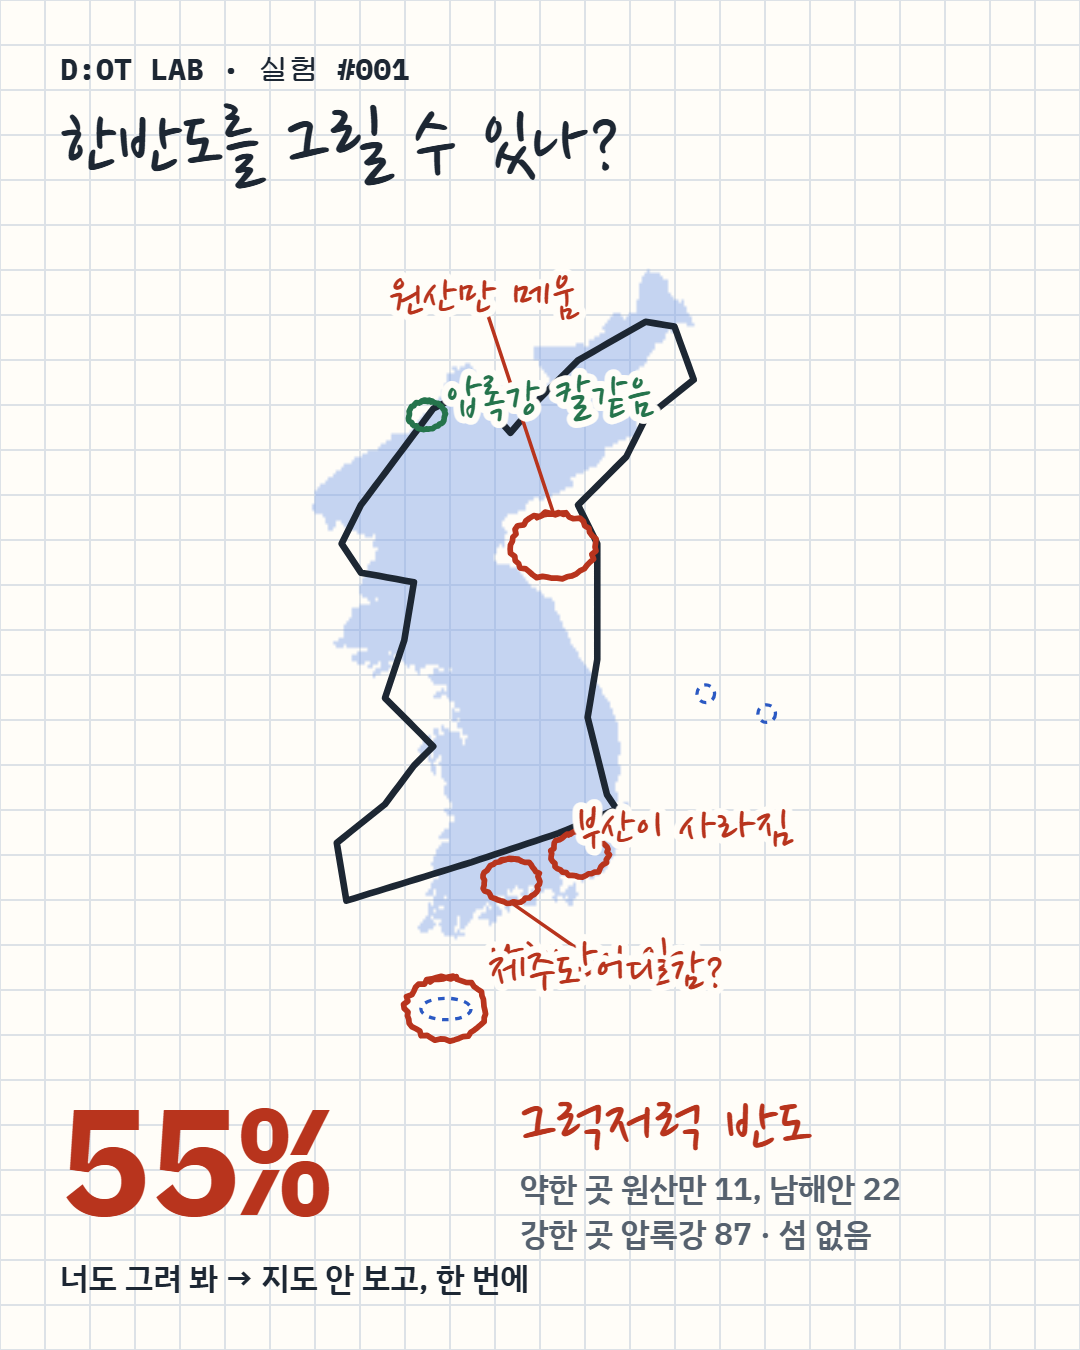
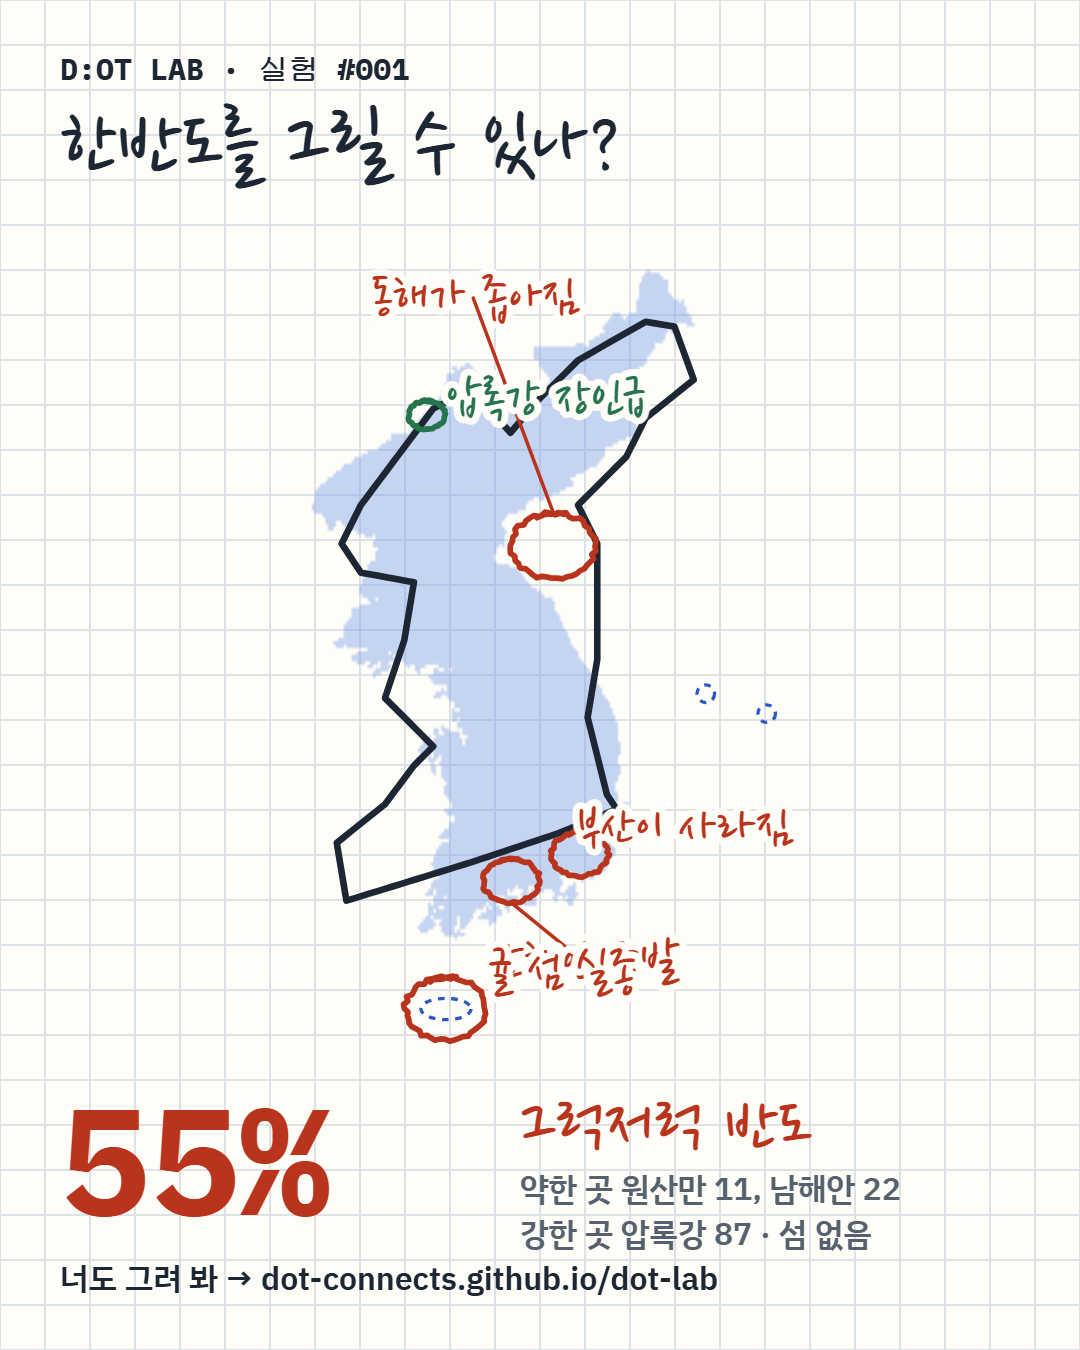
fix: draw Korea share always carries the link (T-0162)
Operator: sharing must include the link. Apps that keep only the image get the address on the card, the link is copied to the clipboard, and the URL is the Pages page wherever the copy runs; links shortened to 144 chars.

Claude-Session: https://claude.ai/code/session_01Qz7rQMowcZtxfyKM7dVZ1j

Changed region(s): [[0.3361, 0.1867, 0.6111, 0.3733], [0.4583, 0.6844, 0.6722, 0.7467], [0.2444, 0.9333, 0.6722, 0.9644]]

diff --git a/works/2026-10-21-draw-korea/site/index.html b/works/2026-10-21-draw-korea/site/index.html
@@ -67,6 +67,8 @@ button:focus-visible{outline:3px solid var(--red);outline-offset:2px}
 .isles{display:flex;gap:6px;align-items:center;flex-wrap:wrap;font-size:14px}
 .isles .chip{border:1.5px solid var(--grid);border-radius:12px;padding:1px 9px;color:var(--muted)}
 .isles .chip.on{border-color:var(--green);color:var(--green);font-weight:700}
+.toast{position:fixed;left:50%;bottom:max(20px,env(safe-area-inset-bottom,0px));transform:translateX(-50%);z-index:20;background:var(--ink);color:var(--paper);
+  font-size:14px;padding:10px 14px;border-radius:6px;max-width:calc(100vw - 32px)}
 dialog{border:1.5px solid var(--ink);border-radius:6px;padding:12px;background:var(--paper);color:var(--ink);max-width:min(92vw,420px)}
 dialog::backdrop{background:rgba(29,39,51,.55)}
 dialog img{width:100%;display:block;border:1px solid var(--grid)}
@@ -102,8 +104,10 @@ dialog img{width:100%;display:block;border:1px solid var(--grid)}
   <p class="sub">채점: 본토만, 넓이·중심을 맞춰 겹친 뒤 두 테두리가 평균 몇 km 떨어졌나(양쪽으로 재서 더 먼 쪽). 약 11 km 이하 = 100%, 92 km 이상 = 0%. 대충 그린 타원 ≈ 20~40%. 지그재그 낙서는 채점 안 함. 섬은 점수 밖 도감. 지도: Natural Earth 1:10m 국경·해안선(본토), 섬은 중심 좌표.</p>
 </main>
 <dialog id="dlg"><p class="sub" style="margin:0 0 8px">이미지를 길게 눌러 저장 · 링크는 아래 버튼</p><img id="dlgImg" alt="내 한반도 결과 이미지">
+  <p class="sub" id="dlgLink" style="margin:8px 0 0;word-break:break-all;user-select:all"></p>
   <div class="actions" style="margin-top:10px"><button class="btn" id="copy" type="button">링크 복사</button><button class="btn" id="close" type="button">닫기</button></div></dialog>
 
+<div class="toast" id="toast" role="status" hidden></div>
 <script>
 const $ = id => document.getElementById(id);
 const store = { get(k, d) { try { const v = localStorage.getItem(k); return v === null ? d : JSON.parse(v); } catch { return d; } },
@@ -281,19 +285,20 @@ function chamfer(src, PW, PH) {
   return D;
 }
 
-// ---- stroke codec: 64 points resampled by arc length, 12 bits per axis, 4 url-safe chars per point ----
+// ---- stroke codec: 48 points resampled by arc length, 9 bits per axis (512 steps), 3 url-safe chars per point ----
 const B64 = "ABCDEFGHIJKLMNOPQRSTUVWXYZabcdefghijklmnopqrstuvwxyz0123456789-_";
 function enc(st) {
   const L = [0]; for (let i = 1; i < st.length; i++) L.push(L[i - 1] + Math.hypot(st[i][0] - st[i - 1][0], st[i][1] - st[i - 1][1]));
   const b = bbox(st), m = Math.max(b.w, b.h) || 1; let out = "", j = 0;
-  for (let q = 0; q < 64; q++) { const d = L[L.length - 1] * q / 63; while (j < L.length - 2 && L[j + 1] < d) j++;
+  for (let q = 0; q < 48; q++) { const d = L[L.length - 1] * q / 47; while (j < L.length - 2 && L[j + 1] < d) j++;
     const t = L[j + 1] > L[j] ? (d - L[j]) / (L[j + 1] - L[j]) : 0, x = st[j][0] + (st[j + 1 < st.length ? j + 1 : j][0] - st[j][0]) * t, y = st[j][1] + (st[j + 1 < st.length ? j + 1 : j][1] - st[j][1]) * t;
-    for (const v of [(x - b.x0) / m, (y - b.y0) / m]) { const n = Math.round(Math.min(1, Math.max(0, v)) * 4095); out += B64[n >> 6] + B64[n & 63]; } }
+    const nx = Math.round(Math.min(1, Math.max(0, (x - b.x0) / m)) * 511), ny = Math.round(Math.min(1, Math.max(0, (y - b.y0) / m)) * 511), n = nx << 9 | ny;
+    out += B64[n >> 12] + B64[(n >> 6) & 63] + B64[n & 63]; }
   return out;
 }
 function dec(str) {
-  if (!/^[A-Za-z0-9_-]+$/.test(str) || str.length !== 256) return null; const pts = [];
-  for (let i = 0; i < str.length; i += 4) { const v = k => (B64.indexOf(str[k]) << 6 | B64.indexOf(str[k + 1])) / 4095; pts.push([v(i), v(i + 2)]); }
+  if (!/^[A-Za-z0-9_-]+$/.test(str) || str.length !== 144) return null; const pts = [];
+  for (let i = 0; i < str.length; i += 3) { const n = B64.indexOf(str[i]) << 12 | B64.indexOf(str[i + 1]) << 6 | B64.indexOf(str[i + 2]); pts.push([(n >> 9) / 511, (n & 511) / 511]); }
   return pts;
 }
 // lay a decoded outline over the result: same area as the target, centroid on the target's centroid
@@ -445,7 +450,8 @@ meLine(); islesLine(); histLine();
 
 // ---- share card ----
 let cardBlob = null;
-const pageUrl = () => location.origin && location.origin !== "null" ? location.origin + location.pathname : "";
+const SITE = "https://dot-connects.github.io/dot-lab/works/2026-10-21-draw-korea/site/";
+const challengeUrl = () => `${SITE}?s=${res.pct}&d=${res.code}`;
 async function card() {
   const W = 1080, H = 1350, c = document.createElement("canvas"); c.width = W; c.height = H; const g = c.getContext("2d");
   g.fillStyle = "#fffdf8"; g.fillRect(0, 0, W, H); g.strokeStyle = "#dde2e7"; g.lineWidth = 2;
@@ -466,15 +472,21 @@ async function card() {
   fit(`약한 곳 ${srt.slice(0, 2).map(r => r.name + " " + r.pct).join(", ")}`, 1200);
   fit(`강한 곳 ${srt[srt.length - 1].name} ${srt[srt.length - 1].pct} · 섬 ` + (ISLES.filter(i => res.got[i.id]).map(i => i.name + "✓").join(" ") || "없음") + (res.friend ? " · 초록 = 친구" : ""), 1245);
   g.font = '600 32px "IBM Plex Sans KR", sans-serif';
-  g.fillStyle = "#1d2733"; g.fillText("너도 그려 봐 → 지도 안 보고, 한 번에", 60, 1290);
+  g.fillStyle = "#1d2733"; g.fillText("너도 그려 봐 → dot-connects.github.io/dot-lab", 60, 1290);   // apps that drop the text still carry the address
   return new Promise(ok => c.toBlob(ok, "image/png"));
 }
-const shareText = () => `한반도 그리기 ${res.pct}% — 「${label(res.pct)}」 이길 수 있나?` + (pageUrl() ? `\n${pageUrl()}?s=${res.pct}&d=${res.code}` : "");
+const shareText = () => `한반도 그리기 ${res.pct}% — 「${label(res.pct)}」 이길 수 있나?\n${challengeUrl()}`;
 $("share").onclick = async () => {
   if (!res) return; const blob = cardBlob || await card(), file = new File([blob], `korea-${res.pct}.png`, { type: "image/png" });
-  if (navigator.canShare && navigator.canShare({ files: [file] })) { try { await navigator.share({ files: [file], text: shareText() }); return; } catch (e) { if (e.name === "AbortError") return; } }
-  $("dlgImg").src = URL.createObjectURL(blob); $("copy").textContent = "링크 복사"; $("dlg").showModal();
+  // KakaoTalk / Instagram often keep only the image from a files share, so the link also goes to the clipboard
+  let copied = false; try { await navigator.clipboard.writeText(shareText()); copied = true; } catch {}
+  if (navigator.canShare && navigator.canShare({ files: [file] })) {
+    try { await navigator.share({ files: [file], text: shareText(), url: challengeUrl() }); if (copied) toast("링크도 복사해 뒀다. 붙여 넣기만 하면 됨"); return; }
+    catch (e) { if (e.name === "AbortError") return; } }
+  if (navigator.share && !navigator.canShare) { try { await navigator.share({ text: shareText(), url: challengeUrl() }); return; } catch (e) { if (e.name === "AbortError") return; } }
+  $("dlgImg").src = URL.createObjectURL(blob); $("dlgLink").textContent = `${SITE}?s=${res.pct}…`; $("copy").textContent = copied ? "링크 복사됨" : "링크 복사"; $("dlg").showModal();
 };
+function toast(t) { const el = $("toast"); el.textContent = t; el.hidden = false; clearTimeout(toast.h); toast.h = setTimeout(() => el.hidden = true, 3000); }
 $("copy").onclick = async () => { try { await navigator.clipboard.writeText(shareText()); $("copy").textContent = "복사됨"; } catch { $("copy").textContent = "복사 안 됨"; } };
 $("close").onclick = () => $("dlg").close();
 $("again").onclick = () => { reset(); drawInk(); };

diff --git a/works/2026-10-21-draw-korea/preview.html b/works/2026-10-21-draw-korea/preview.html
@@ -62,6 +62,8 @@ button:focus-visible{outline:3px solid var(--red);outline-offset:2px}
 .isles{display:flex;gap:6px;align-items:center;flex-wrap:wrap;font-size:14px}
 .isles .chip{border:1.5px solid var(--grid);border-radius:12px;padding:1px 9px;color:var(--muted)}
 .isles .chip.on{border-color:var(--green);color:var(--green);font-weight:700}
+.toast{position:fixed;left:50%;bottom:max(20px,env(safe-area-inset-bottom,0px));transform:translateX(-50%);z-index:20;background:var(--ink);color:var(--paper);
+  font-size:14px;padding:10px 14px;border-radius:6px;max-width:calc(100vw - 32px)}
 dialog{border:1.5px solid var(--ink);border-radius:6px;padding:12px;background:var(--paper);color:var(--ink);max-width:min(92vw,420px)}
 dialog::backdrop{background:rgba(29,39,51,.55)}
 dialog img{width:100%;display:block;border:1px solid var(--grid)}
@@ -94,8 +96,10 @@ dialog img{width:100%;display:block;border:1px solid var(--grid)}
   <p class="sub">채점: 본토만, 넓이·중심을 맞춰 겹친 뒤 두 테두리가 평균 몇 km 떨어졌나(양쪽으로 재서 더 먼 쪽). 약 11 km 이하 = 100%, 92 km 이상 = 0%. 대충 그린 타원 ≈ 20~40%. 지그재그 낙서는 채점 안 함. 섬은 점수 밖 도감. 지도: Natural Earth 1:10m 국경·해안선(본토), 섬은 중심 좌표.</p>
 </main>
 <dialog id="dlg"><p class="sub" style="margin:0 0 8px">이미지를 길게 눌러 저장 · 링크는 아래 버튼</p><img id="dlgImg" alt="내 한반도 결과 이미지">
+  <p class="sub" id="dlgLink" style="margin:8px 0 0;word-break:break-all;user-select:all"></p>
   <div class="actions" style="margin-top:10px"><button class="btn" id="copy" type="button">링크 복사</button><button class="btn" id="close" type="button">닫기</button></div></dialog>
 
+<div class="toast" id="toast" role="status" hidden></div>
 <script>
 const $ = id => document.getElementById(id);
 const store = { get(k, d) { try { const v = localStorage.getItem(k); return v === null ? d : JSON.parse(v); } catch { return d; } },
@@ -273,19 +277,20 @@ function chamfer(src, PW, PH) {
   return D;
 }
 
-// ---- stroke codec: 64 points resampled by arc length, 12 bits per axis, 4 url-safe chars per point ----
+// ---- stroke codec: 48 points resampled by arc length, 9 bits per axis (512 steps), 3 url-safe chars per point ----
 const B64 = "ABCDEFGHIJKLMNOPQRSTUVWXYZabcdefghijklmnopqrstuvwxyz0123456789-_";
 function enc(st) {
   const L = [0]; for (let i = 1; i < st.length; i++) L.push(L[i - 1] + Math.hypot(st[i][0] - st[i - 1][0], st[i][1] - st[i - 1][1]));
   const b = bbox(st), m = Math.max(b.w, b.h) || 1; let out = "", j = 0;
-  for (let q = 0; q < 64; q++) { const d = L[L.length - 1] * q / 63; while (j < L.length - 2 && L[j + 1] < d) j++;
+  for (let q = 0; q < 48; q++) { const d = L[L.length - 1] * q / 47; while (j < L.length - 2 && L[j + 1] < d) j++;
     const t = L[j + 1] > L[j] ? (d - L[j]) / (L[j + 1] - L[j]) : 0, x = st[j][0] + (st[j + 1 < st.length ? j + 1 : j][0] - st[j][0]) * t, y = st[j][1] + (st[j + 1 < st.length ? j + 1 : j][1] - st[j][1]) * t;
-    for (const v of [(x - b.x0) / m, (y - b.y0) / m]) { const n = Math.round(Math.min(1, Math.max(0, v)) * 4095); out += B64[n >> 6] + B64[n & 63]; } }
+    const nx = Math.round(Math.min(1, Math.max(0, (x - b.x0) / m)) * 511), ny = Math.round(Math.min(1, Math.max(0, (y - b.y0) / m)) * 511), n = nx << 9 | ny;
+    out += B64[n >> 12] + B64[(n >> 6) & 63] + B64[n & 63]; }
   return out;
 }
 function dec(str) {
-  if (!/^[A-Za-z0-9_-]+$/.test(str) || str.length !== 256) return null; const pts = [];
-  for (let i = 0; i < str.length; i += 4) { const v = k => (B64.indexOf(str[k]) << 6 | B64.indexOf(str[k + 1])) / 4095; pts.push([v(i), v(i + 2)]); }
+  if (!/^[A-Za-z0-9_-]+$/.test(str) || str.length !== 144) return null; const pts = [];
+  for (let i = 0; i < str.length; i += 3) { const n = B64.indexOf(str[i]) << 12 | B64.indexOf(str[i + 1]) << 6 | B64.indexOf(str[i + 2]); pts.push([(n >> 9) / 511, (n & 511) / 511]); }
   return pts;
 }
 // lay a decoded outline over the result: same area as the target, centroid on the target's centroid
@@ -437,7 +442,8 @@ meLine(); islesLine(); histLine();
 
 // ---- share card ----
 let cardBlob = null;
-const pageUrl = () => location.origin && location.origin !== "null" ? location.origin + location.pathname : "";
+const SITE = "https://dot-connects.github.io/dot-lab/works/2026-10-21-draw-korea/site/";
+const challengeUrl = () => `${SITE}?s=${res.pct}&d=${res.code}`;
 async function card() {
   const W = 1080, H = 1350, c = document.createElement("canvas"); c.width = W; c.height = H; const g = c.getContext("2d");
   g.fillStyle = "#fffdf8"; g.fillRect(0, 0, W, H); g.strokeStyle = "#dde2e7"; g.lineWidth = 2;
@@ -458,15 +464,21 @@ async function card() {
   fit(`약한 곳 ${srt.slice(0, 2).map(r => r.name + " " + r.pct).join(", ")}`, 1200);
   fit(`강한 곳 ${srt[srt.length - 1].name} ${srt[srt.length - 1].pct} · 섬 ` + (ISLES.filter(i => res.got[i.id]).map(i => i.name + "✓").join(" ") || "없음") + (res.friend ? " · 초록 = 친구" : ""), 1245);
   g.font = '600 32px "IBM Plex Sans KR", sans-serif';
-  g.fillStyle = "#1d2733"; g.fillText("너도 그려 봐 → 지도 안 보고, 한 번에", 60, 1290);
+  g.fillStyle = "#1d2733"; g.fillText("너도 그려 봐 → dot-connects.github.io/dot-lab", 60, 1290);   // apps that drop the text still carry the address
   return new Promise(ok => c.toBlob(ok, "image/png"));
 }
-const shareText = () => `한반도 그리기 ${res.pct}% — 「${label(res.pct)}」 이길 수 있나?` + (pageUrl() ? `\n${pageUrl()}?s=${res.pct}&d=${res.code}` : "");
+const shareText = () => `한반도 그리기 ${res.pct}% — 「${label(res.pct)}」 이길 수 있나?\n${challengeUrl()}`;
 $("share").onclick = async () => {
   if (!res) return; const blob = cardBlob || await card(), file = new File([blob], `korea-${res.pct}.png`, { type: "image/png" });
-  if (navigator.canShare && navigator.canShare({ files: [file] })) { try { await navigator.share({ files: [file], text: shareText() }); return; } catch (e) { if (e.name === "AbortError") return; } }
-  $("dlgImg").src = URL.createObjectURL(blob); $("copy").textContent = "링크 복사"; $("dlg").showModal();
+  // KakaoTalk / Instagram often keep only the image from a files share, so the link also goes to the clipboard
+  let copied = false; try { await navigator.clipboard.writeText(shareText()); copied = true; } catch {}
+  if (navigator.canShare && navigator.canShare({ files: [file] })) {
+    try { await navigator.share({ files: [file], text: shareText(), url: challengeUrl() }); if (copied) toast("링크도 복사해 뒀다. 붙여 넣기만 하면 됨"); return; }
+    catch (e) { if (e.name === "AbortError") return; } }
+  if (navigator.share && !navigator.canShare) { try { await navigator.share({ text: shareText(), url: challengeUrl() }); return; } catch (e) { if (e.name === "AbortError") return; } }
+  $("dlgImg").src = URL.createObjectURL(blob); $("dlgLink").textContent = `${SITE}?s=${res.pct}…`; $("copy").textContent = copied ? "링크 복사됨" : "링크 복사"; $("dlg").showModal();
 };
+function toast(t) { const el = $("toast"); el.textContent = t; el.hidden = false; clearTimeout(toast.h); toast.h = setTimeout(() => el.hidden = true, 3000); }
 $("copy").onclick = async () => { try { await navigator.clipboard.writeText(shareText()); $("copy").textContent = "복사됨"; } catch { $("copy").textContent = "복사 안 됨"; } };
 $("close").onclick = () => $("dlg").close();
 $("again").onclick = () => { reset(); drawInk(); };

diff --git a/works/2026-10-21-draw-korea/src.html b/works/2026-10-21-draw-korea/src.html
@@ -62,6 +62,8 @@ button:focus-visible{outline:3px solid var(--red);outline-offset:2px}
 .isles{display:flex;gap:6px;align-items:center;flex-wrap:wrap;font-size:14px}
 .isles .chip{border:1.5px solid var(--grid);border-radius:12px;padding:1px 9px;color:var(--muted)}
 .isles .chip.on{border-color:var(--green);color:var(--green);font-weight:700}
+.toast{position:fixed;left:50%;bottom:max(20px,env(safe-area-inset-bottom,0px));transform:translateX(-50%);z-index:20;background:var(--ink);color:var(--paper);
+  font-size:14px;padding:10px 14px;border-radius:6px;max-width:calc(100vw - 32px)}
 dialog{border:1.5px solid var(--ink);border-radius:6px;padding:12px;background:var(--paper);color:var(--ink);max-width:min(92vw,420px)}
 dialog::backdrop{background:rgba(29,39,51,.55)}
 dialog img{width:100%;display:block;border:1px solid var(--grid)}
@@ -94,8 +96,10 @@ dialog img{width:100%;display:block;border:1px solid var(--grid)}
   <p class="sub">채점: 본토만, 넓이·중심을 맞춰 겹친 뒤 두 테두리가 평균 몇 km 떨어졌나(양쪽으로 재서 더 먼 쪽). 약 11 km 이하 = 100%, 92 km 이상 = 0%. 대충 그린 타원 ≈ 20~40%. 지그재그 낙서는 채점 안 함. 섬은 점수 밖 도감. 지도: Natural Earth 1:10m 국경·해안선(본토), 섬은 중심 좌표.</p>
 </main>
 <dialog id="dlg"><p class="sub" style="margin:0 0 8px">이미지를 길게 눌러 저장 · 링크는 아래 버튼</p><img id="dlgImg" alt="내 한반도 결과 이미지">
+  <p class="sub" id="dlgLink" style="margin:8px 0 0;word-break:break-all;user-select:all"></p>
   <div class="actions" style="margin-top:10px"><button class="btn" id="copy" type="button">링크 복사</button><button class="btn" id="close" type="button">닫기</button></div></dialog>
 
+<div class="toast" id="toast" role="status" hidden></div>
 <script>
 const $ = id => document.getElementById(id);
 const store = { get(k, d) { try { const v = localStorage.getItem(k); return v === null ? d : JSON.parse(v); } catch { return d; } },
@@ -273,19 +277,20 @@ function chamfer(src, PW, PH) {
   return D;
 }
 
-// ---- stroke codec: 64 points resampled by arc length, 12 bits per axis, 4 url-safe chars per point ----
+// ---- stroke codec: 48 points resampled by arc length, 9 bits per axis (512 steps), 3 url-safe chars per point ----
 const B64 = "ABCDEFGHIJKLMNOPQRSTUVWXYZabcdefghijklmnopqrstuvwxyz0123456789-_";
 function enc(st) {
   const L = [0]; for (let i = 1; i < st.length; i++) L.push(L[i - 1] + Math.hypot(st[i][0] - st[i - 1][0], st[i][1] - st[i - 1][1]));
   const b = bbox(st), m = Math.max(b.w, b.h) || 1; let out = "", j = 0;
-  for (let q = 0; q < 64; q++) { const d = L[L.length - 1] * q / 63; while (j < L.length - 2 && L[j + 1] < d) j++;
+  for (let q = 0; q < 48; q++) { const d = L[L.length - 1] * q / 47; while (j < L.length - 2 && L[j + 1] < d) j++;
     const t = L[j + 1] > L[j] ? (d - L[j]) / (L[j + 1] - L[j]) : 0, x = st[j][0] + (st[j + 1 < st.length ? j + 1 : j][0] - st[j][0]) * t, y = st[j][1] + (st[j + 1 < st.length ? j + 1 : j][1] - st[j][1]) * t;
-    for (const v of [(x - b.x0) / m, (y - b.y0) / m]) { const n = Math.round(Math.min(1, Math.max(0, v)) * 4095); out += B64[n >> 6] + B64[n & 63]; } }
+    const nx = Math.round(Math.min(1, Math.max(0, (x - b.x0) / m)) * 511), ny = Math.round(Math.min(1, Math.max(0, (y - b.y0) / m)) * 511), n = nx << 9 | ny;
+    out += B64[n >> 12] + B64[(n >> 6) & 63] + B64[n & 63]; }
   return out;
 }
 function dec(str) {
-  if (!/^[A-Za-z0-9_-]+$/.test(str) || str.length !== 256) return null; const pts = [];
-  for (let i = 0; i < str.length; i += 4) { const v = k => (B64.indexOf(str[k]) << 6 | B64.indexOf(str[k + 1])) / 4095; pts.push([v(i), v(i + 2)]); }
+  if (!/^[A-Za-z0-9_-]+$/.test(str) || str.length !== 144) return null; const pts = [];
+  for (let i = 0; i < str.length; i += 3) { const n = B64.indexOf(str[i]) << 12 | B64.indexOf(str[i + 1]) << 6 | B64.indexOf(str[i + 2]); pts.push([(n >> 9) / 511, (n & 511) / 511]); }
   return pts;
 }
 // lay a decoded outline over the result: same area as the target, centroid on the target's centroid
@@ -437,7 +442,8 @@ meLine(); islesLine(); histLine();
 
 // ---- share card ----
 let cardBlob = null;
-const pageUrl = () => location.origin && location.origin !== "null" ? location.origin + location.pathname : "";
+const SITE = "https://dot-connects.github.io/dot-lab/works/2026-10-21-draw-korea/site/";
+const challengeUrl = () => `${SITE}?s=${res.pct}&d=${res.code}`;
 async function card() {
   const W = 1080, H = 1350, c = document.createElement("canvas"); c.width = W; c.height = H; const g = c.getContext("2d");
   g.fillStyle = "#fffdf8"; g.fillRect(0, 0, W, H); g.strokeStyle = "#dde2e7"; g.lineWidth = 2;
@@ -458,15 +464,21 @@ async function card() {
   fit(`약한 곳 ${srt.slice(0, 2).map(r => r.name + " " + r.pct).join(", ")}`, 1200);
   fit(`강한 곳 ${srt[srt.length - 1].name} ${srt[srt.length - 1].pct} · 섬 ` + (ISLES.filter(i => res.got[i.id]).map(i => i.name + "✓").join(" ") || "없음") + (res.friend ? " · 초록 = 친구" : ""), 1245);
   g.font = '600 32px "IBM Plex Sans KR", sans-serif';
-  g.fillStyle = "#1d2733"; g.fillText("너도 그려 봐 → 지도 안 보고, 한 번에", 60, 1290);
+  g.fillStyle = "#1d2733"; g.fillText("너도 그려 봐 → dot-connects.github.io/dot-lab", 60, 1290);   // apps that drop the text still carry the address
   return new Promise(ok => c.toBlob(ok, "image/png"));
 }
-const shareText = () => `한반도 그리기 ${res.pct}% — 「${label(res.pct)}」 이길 수 있나?` + (pageUrl() ? `\n${pageUrl()}?s=${res.pct}&d=${res.code}` : "");
+const shareText = () => `한반도 그리기 ${res.pct}% — 「${label(res.pct)}」 이길 수 있나?\n${challengeUrl()}`;
 $("share").onclick = async () => {
   if (!res) return; const blob = cardBlob || await card(), file = new File([blob], `korea-${res.pct}.png`, { type: "image/png" });
-  if (navigator.canShare && navigator.canShare({ files: [file] })) { try { await navigator.share({ files: [file], text: shareText() }); return; } catch (e) { if (e.name === "AbortError") return; } }
-  $("dlgImg").src = URL.createObjectURL(blob); $("copy").textContent = "링크 복사"; $("dlg").showModal();
+  // KakaoTalk / Instagram often keep only the image from a files share, so the link also goes to the clipboard
+  let copied = false; try { await navigator.clipboard.writeText(shareText()); copied = true; } catch {}
+  if (navigator.canShare && navigator.canShare({ files: [file] })) {
+    try { await navigator.share({ files: [file], text: shareText(), url: challengeUrl() }); if (copied) toast("링크도 복사해 뒀다. 붙여 넣기만 하면 됨"); return; }
+    catch (e) { if (e.name === "AbortError") return; } }
+  if (navigator.share && !navigator.canShare) { try { await navigator.share({ text: shareText(), url: challengeUrl() }); return; } catch (e) { if (e.name === "AbortError") return; } }
+  $("dlgImg").src = URL.createObjectURL(blob); $("dlgLink").textContent = `${SITE}?s=${res.pct}…`; $("copy").textContent = copied ? "링크 복사됨" : "링크 복사"; $("dlg").showModal();
 };
+function toast(t) { const el = $("toast"); el.textContent = t; el.hidden = false; clearTimeout(toast.h); toast.h = setTimeout(() => el.hidden = true, 3000); }
 $("copy").onclick = async () => { try { await navigator.clipboard.writeText(shareText()); $("copy").textContent = "복사됨"; } catch { $("copy").textContent = "복사 안 됨"; } };
 $("close").onclick = () => $("dlg").close();
 $("again").onclick = () => { reset(); drawInk(); };

diff --git a/index.html b/index.html
@@ -1,0 +1,25 @@
+<!doctype html>
+<html lang="ko">
+<head>
+<meta charset="utf-8">
+<meta name="viewport" content="width=device-width, initial-scale=1">
+<title>D:OT lab</title>
+<link rel="stylesheet" href="https://fonts.googleapis.com/css2?family=Nanum+Pen+Script&family=IBM+Plex+Sans+KR:wght@400;600&display=swap">
+<style>
+:root{--paper:#f6f4ee;--ink:#1d2733;--red:#b8341d;--muted:#56616e;--grid:#dde2e7;color-scheme:light}
+body{margin:0;background:var(--paper);color:var(--ink);font-family:"IBM Plex Sans KR","Malgun Gothic",sans-serif}
+main{max-width:520px;margin:0 auto;padding:28px 16px}
+h1{font-family:"Nanum Pen Script",cursive;font-weight:400;font-size:48px;margin:0}
+p{color:var(--muted);margin:4px 0 20px}
+a{display:block;border:1.5px solid var(--ink);border-radius:4px;padding:14px 16px;color:var(--ink);text-decoration:none;background:#fffdf8}
+a b{font-family:"Nanum Pen Script",cursive;font-weight:400;font-size:30px;color:var(--red);display:block}
+</style>
+</head>
+<body>
+<main>
+  <h1>D:OT lab</h1>
+  <p>이상한 질문을 진짜로 만들어 본다.</p>
+  <a href="works/2026-10-21-draw-korea/site/"><b>실험 #001 한반도를 그릴 수 있나?</b>지도 안 보고 그려서 채점받기</a>
+</main>
+</body>
+</html>
